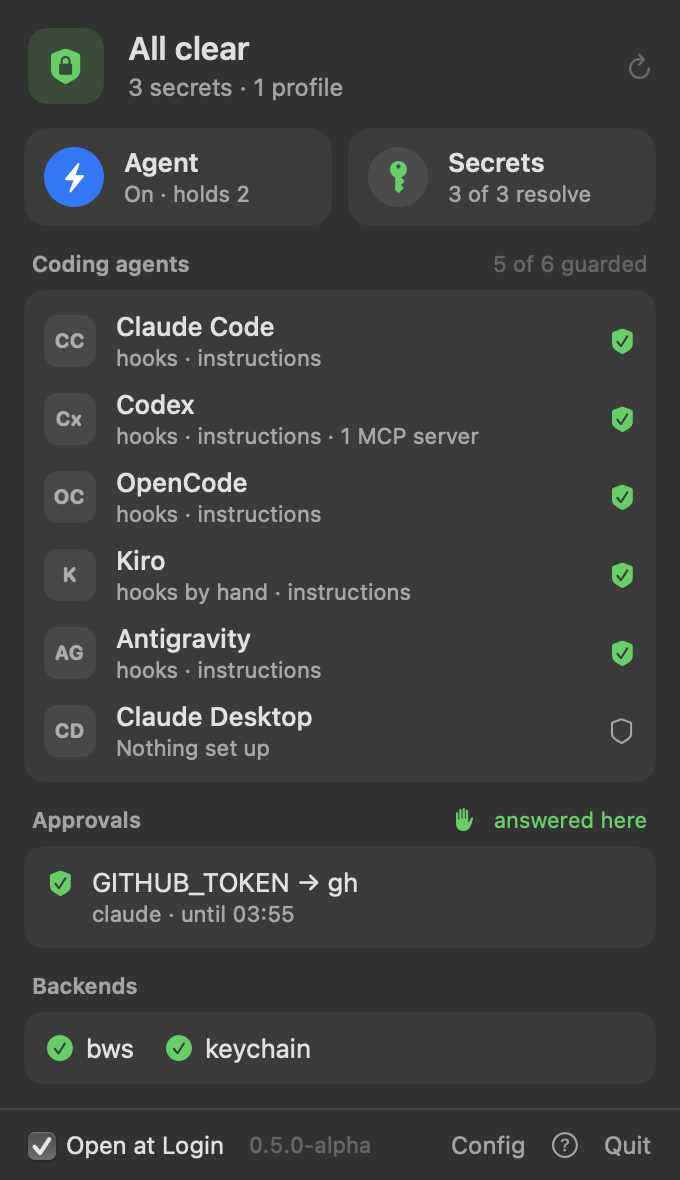
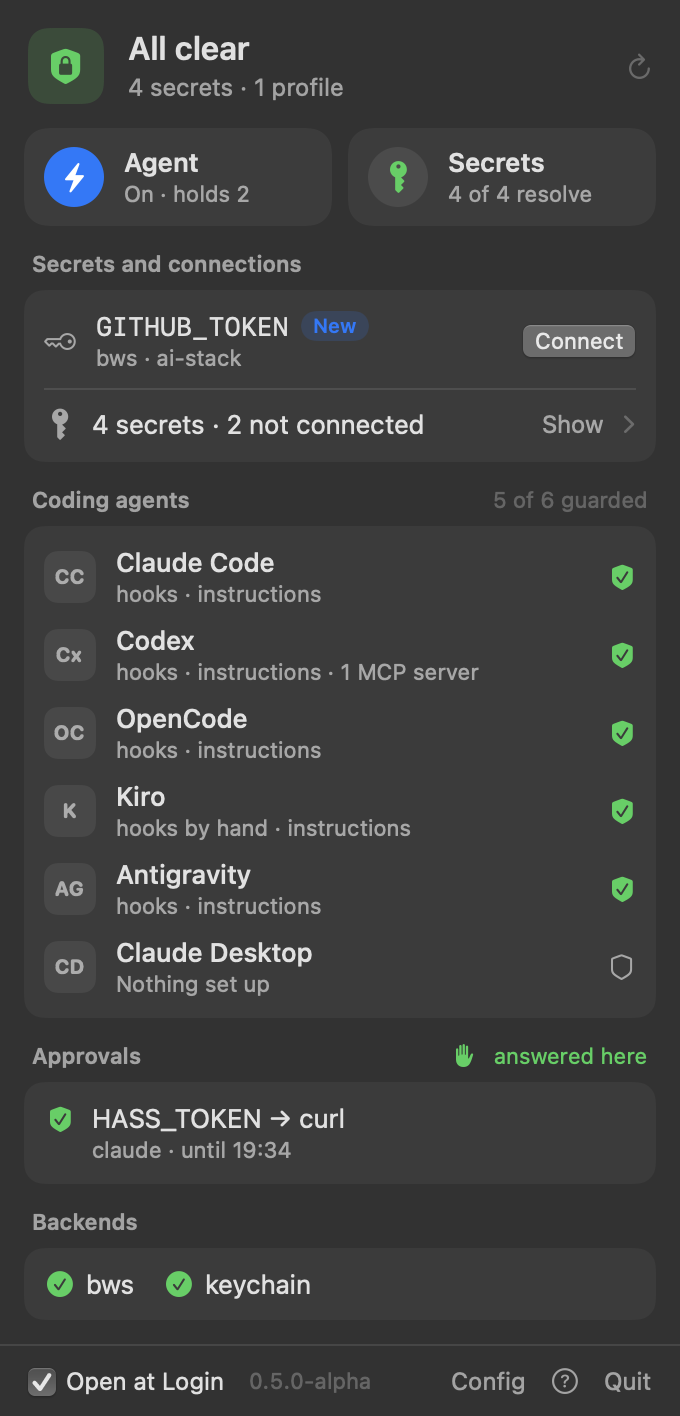
docs: ADR 10, clients, and the Secrets and Connect windows

diff --git a/README.md b/README.md
@@ -107,6 +107,30 @@ check` (which secrets resolve, never their values), `passess add NAME --ref …`
 `passess add NAME --keychain` (you type the value into the keychain yourself), and
 `passess doctor` (what is wrong and the command that fixes it). Each takes `--json`.
 
+### Which coding agents may use a secret
+
+`clients` connects a secret to the coding agents that may ask for it. Without it every
+agent may; `clients = []` means none. A command an agent left out asks for is refused,
+whether the agent shows in the caller's environment or among its parent processes
+([ADR 10](docs/adr/0010-secrets-name-the-agents-they-are-connected-to.md)). Your own
+terminal is not an agent and keeps what `allow` says.
+
+```toml
+[secrets.OPENROUTER_API_KEY]
+ref     = "bws://92fe9fe6-c441-4b27-b261-b4b9007117b9/OPENROUTER_API_KEY"
+clients = ["claude-code", "codex"]   # claude-code, codex, opencode, kiro, antigravity, cursor, gemini-cli, zed
+```
+
+```sh
+passess discover                     # bws secrets passess does not use yet, by name only
+passess add GITHUB_TOKEN --ref bws://<project>/GITHUB_TOKEN --clients claude-code --approve
+passess set GITHUB_TOKEN --clients claude-code,codex --approve false
+passess remove GITHUB_TOKEN          # passess forgets it; the vault keeps it
+```
+
+`add`, `set`, `remove` and `discover` are yours to run: they refuse inside an agent, and
+the hooks refuse them in agent shells. Passess.app does the same in a few clicks.
+
 ## MCP servers without tokens in harness configs
 
 Define each server once, in passess config:
@@ -354,28 +378,46 @@ value, in `agent-audit.jsonl` next to its socket.
 - whether everything is fine, and every problem with its fix, copyable;
 - two tiles: the agent, which you switch on and off here, and the secrets, whose
   check shows which resolve (names and sources only);
+- secrets that turned up in your vault and are not connected yet, each with Connect,
+  and the way into the Secrets window;
 - the coding agents: which have passess's hooks, instructions and MCP servers,
   and the `passess install` line for any that needs setup;
 - the live approvals, and whether each backend is usable.
 
+The Secrets window lists every secret with the coding agents it is connected to, and
+the vault's secrets passess does not use yet. Connect, or a click on a secret, opens a
+window with a checkbox per agent and "ask me first"; Save asks for Touch ID or your
+password, then runs `passess add` or `set`. No terminal, no config file.
+
 When an agent needs your approval, a window asks who wants which secret for which
-command, and Allow takes Touch ID. The app never receives a value.
+command, and Allow takes Touch ID. The app never receives a value. It follows the Mac's
+language: English, or Turkish.
 
 <p>
 <picture>
   <source media="(prefers-color-scheme: dark)" srcset="docs/images/menubar-panel-dark.png">
-  <img alt="The passess panel: all clear; the agent on and holding two values; three secrets resolve; Claude Code, Codex, OpenCode, Kiro and Antigravity guarded; one Allow for gh; bws and keychain ready" src="docs/images/menubar-panel-light.png" width="340">
+  <img alt="The passess panel: all clear; the agent on and holding two values; four secrets resolve; GITHUB_TOKEN new in the vault with Connect; Claude Code, Codex, OpenCode, Kiro and Antigravity guarded; one Allow for curl; bws and keychain ready" src="docs/images/menubar-panel-light.png" width="340">
 </picture>
 <picture>
   <source media="(prefers-color-scheme: dark)" srcset="docs/images/menubar-approval-dark.png">
   <img alt="An approval window: claude wants GITHUB_TOKEN for gh, with the command, the directory and the process, and Deny or Allow with Touch ID" src="docs/images/menubar-approval-light.png" width="400">
 </picture>
 </p>
+<p>
+<picture>
+  <source media="(prefers-color-scheme: dark)" srcset="docs/images/menubar-secrets-dark.png">
+  <img alt="The Secrets window: GITHUB_TOKEN, new in the vault, and slack-bot, each with Connect; four secrets with the agents each is connected to, two of them asking first" src="docs/images/menubar-secrets-light.png" width="480">
+</picture>
+<picture>
+  <source media="(prefers-color-scheme: dark)" srcset="docs/images/menubar-connect-dark.png">
+  <img alt="The Connect window for GITHUB_TOKEN: the name agents see, a checkbox per coding agent, ask me first, and Connect" src="docs/images/menubar-connect-light.png" width="420">
+</picture>
+</p>
 
 ```sh
 make macos-app        # needs only the Xcode Command Line Tools
 open bin/Passess.app
-make macos-previews   # the panel and the window in sample states, as PNG files
+make macos-previews   # the panel and the windows in sample states, as PNG files
 ```
 
 It bundles its own copy of the CLI, and starts the agent with the `passess` on your

diff --git a/docs/adr/0010-secrets-name-the-agents-they-are-connected-to.md b/docs/adr/0010-secrets-name-the-agents-they-are-connected-to.md
@@ -1,0 +1,55 @@
+# 10. Secrets name the coding agents they are connected to, chosen in the app
+
+Status: accepted, 2026-10-09
+
+## Context
+
+A secret added to the vault did nothing until someone ran `passess add` in a terminal
+with the right reference, and the menu bar app could only show status. People who keep
+their secrets in Bitwarden expected a new one to show up in the app, and wanted to say
+in a few clicks which coding agent may use it, without a terminal or a text file.
+
+Who may receive a secret was a list of programs (`allow`). Every coding agent could ask
+for every secret; nothing said "Codex, but not OpenCode".
+
+## Decision
+
+- `[secrets.NAME]` takes `clients`: the coding agents it is connected to, named by the
+  IDs `internal/detect` reports (`claude-code`, `codex`, `opencode`, `kiro`,
+  `antigravity`, `cursor`, `gemini-cli`, `zed`). Without the key every agent may ask, as
+  before; `clients = []` connects it to none. An unknown ID is a config error.
+- exec (in-process and through the agent), `run`, `http`, `mcp-exec` and `helper`
+  refuse a secret when a coding agent the call comes from is not in its list. An agent
+  is seen two ways: a marker in the caller's environment, or a harness executable among
+  the caller's ancestors (`detect.Program`, as for anchors in ADR 9). Every agent seen
+  must be connected, so an agent started inside another acts for both.
+- A call in which no agent is seen keeps the secret's other rules. Detection only ever
+  adds a refusal (the rule of `internal/detect`); the user's own terminal and services
+  started by launchd still get what their allow lists and profiles say.
+- `passess discover` lists the bws secrets no reference points at, with a name and a
+  reference to add each by. `bws secret list` prints values beside the names; passess
+  parses the names and clears that output at once. Other backends come later.
+- `passess set` changes a secret's clients, approval and note; `passess remove` forgets
+  one, but never one a profile or MCP server uses. Both edit the one `[secrets.NAME]`
+  table byte for byte, after a backup, and keep the result only if parsing both versions
+  shows exactly that change. `add` takes `--clients` and `--approve`.
+- `add`, `set`, `remove` and `discover` refuse under a harness, and the hooks refuse
+  them in agent shells: who may use which secret, and what the vault holds, are the
+  user's.
+- The menu bar app lists the secrets and the vault's unconnected ones. Connecting or
+  changing one opens a window with a checkbox per agent and "ask me first"; Save asks for
+  Touch ID or the password, then runs the CLI. The app never receives a value.
+
+## Consequences
+
+- The app can do what needed a terminal, and an agent driving the screen can press the
+  buttons but not the sensor.
+- `clients` narrows who may ask; `allow` still narrows what may receive. A secret the
+  user restricts to Codex no longer reaches an MCP server Claude Code starts, and the
+  app says which profiles and MCP servers use each secret.
+- A coding agent passess does not recognize counts as no agent. The list is the one
+  `detect` knows; adding a harness there adds it here.
+- A config with `clients` does not load in a passess older than this one, which rejects
+  unknown keys: the CLI, the agent and the app have to be updated together.
+- Discovery fetches every value the machine account can read, as resolving a project
+  does, so the app runs it on start, when it opens and at most every half hour.

diff --git a/docs/THREAT-MODEL.md b/docs/THREAT-MODEL.md
@@ -17,7 +17,7 @@ where the protection stops. Read the last section before relying on it.
 | T1 | A value reaches the model's context by accident: the agent reads `.env`, dumps the environment, prints a header while debugging, a tool echoes a DSN in an error | Primary: near zero | Values never enter the agent's environment or files; `exec`, `run` and `mcp-exec` redact child output; hooks refuse known-bad commands early |
 | T2 | Plaintext at rest: harness configs and their backups, dotfiles, `.env`, transcripts | Primary: find, move, eliminate | `scan`, `audit`, `migrate`; MCP configs reference `passess mcp-exec <name>` instead of holding tokens |
 | T3 | The agent writes a key into code or a commit | Catch | Scanning and hooks; the agent never learns the value in the first place |
-| T4 | Over-broad access: every process inherits every secret | Least privilege | Secrets are declared per consumer (command, MCP server, profile) |
+| T4 | Over-broad access: every process inherits every secret | Least privilege | Secrets are declared per consumer (command, MCP server, profile) and connected to the coding agents that may ask for them (`clients`, ADR 10) |
 | T5 | Prompt-injection exfiltration: the agent *uses* a secret it cannot see and sends it elsewhere | Make harder | Per-secret command allow lists; shells, interpreters and encoders refused by default; later approvals and a host-bound egress proxy |
 | T6 | A deliberately malicious agent with an unsandboxed shell running as the same OS user | Out of scope | Such a process can read anything the user can, including the keychain. A hard boundary needs the harness sandbox with passess outside it |
 | T7 | A malicious repository: a cloned project's passess file asks for the user's secrets | Prevent | Project files may only name the secrets they need; references and policy widening live in user config alone |
@@ -79,6 +79,12 @@ where the protection stops. Read the last section before relying on it.
   a newer agent that way, which forgets the cache and the approvals, as `agent lock`
   does. That is part of T5, not a hard line: what the hooks cannot parse (a script, an
   interpreter one-liner that builds the path) still gets through.
+- **A clients list holds the agents passess recognizes.** An agent is seen by a marker
+  in its commands' environment or by its executable among their ancestors. A command
+  that clears the markers and detaches from the agent (a daemonized child whose parent
+  is now launchd) is seen as no agent and keeps only the secret's allow list. So is an
+  agent passess does not know. Like the allow lists, `clients` narrows an agent that
+  uses passess; one that attacks it is T6.
 - **The agent answers whether a text holds one of its values.** Hooks send tool output
   to it for masking, and so could any same-user process, with a guess. For a short,
   guessable value, a password, that is an oracle. Reaching the socket at all is T6.

diff --git a/docs/ROADMAP.md b/docs/ROADMAP.md
@@ -79,6 +79,18 @@ Done:
 Next: a transparent proxy for programs other than curl, `fnox://`, `passess trust`,
 Linux and Windows polish, signed releases.
 
+**Slice 8 (in progress): secrets without a terminal.** Done
+([ADR 10](adr/0010-secrets-name-the-agents-they-are-connected-to.md)):
+- `clients`: a secret names the coding agents that may ask for it;
+- `discover` lists the bws secrets passess does not use yet; `set` and `remove` change
+  and forget one; `add --clients --approve`;
+- in Passess.app, the Secrets window and the Connect window, with Touch ID; the app in
+  English and Turkish.
+
+Next, in order: apps as targets (Hermes, OpenClaw, DeepSeek Harness: connecting a secret
+adds it to the app's launch profile), then a client's own API connection through a
+local proxy with a per-client key, so the real key never sits in the client's settings.
+
 **Before the first release without `-alpha`.** The canary matrix: each harness, run for
 real with a canary secret, must never show it in its output, transcripts or files.
 Claude Code, Kiro and Antigravity pass; Codex and OpenCode wait for a working model
